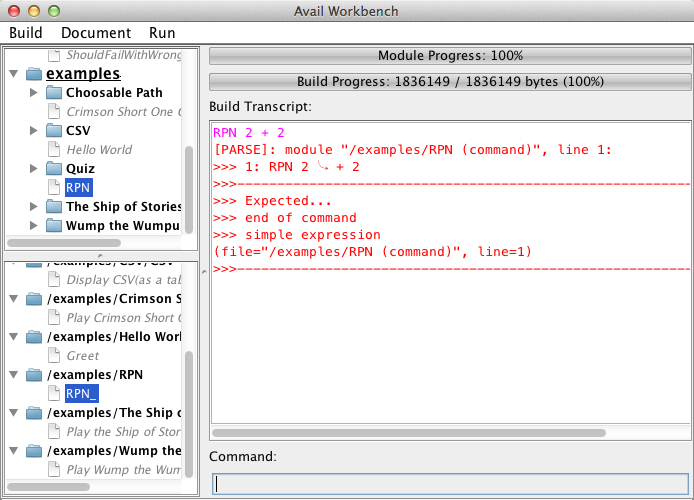
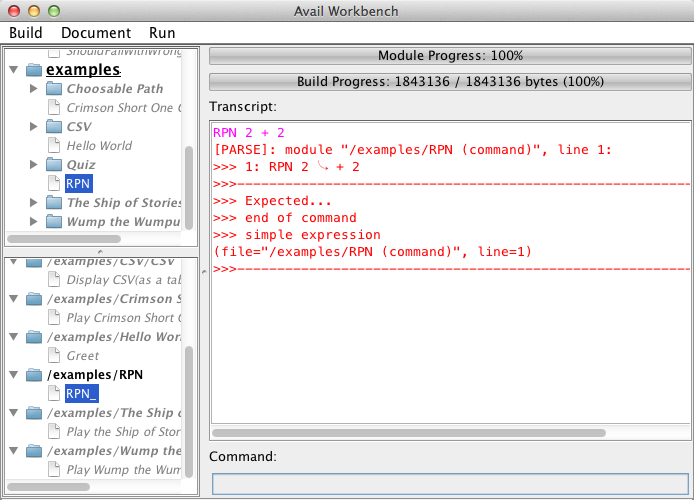
Updated the images for the tutorials to reflect the new appearance of the Avail workbench.

diff --git a/about-avail/learn/tutorials/rpn.html b/about-avail/learn/tutorials/rpn.html
@@ -44,7 +44,7 @@
 <li>Learn how to re-export imported method names for use by other modules.</li>
 <li>Learn how to use an import filter.</li>
 <li>Learn how to rename an imported method name.</li>
-<li>Learn the four basic arithmetic methods, <code>"_+_"</code>, <code>"_-_"</code>, <code>"_×_"</code>, and <code>"_÷_"</code>.</li>
+<li>Learn the four basic arithmetic methods, <code>"_+_"</code>, <code>"_-_"</code>, <code>"_&times;_"</code>, and <code>"_&divide;_"</code>.</li>
 <li>Learn how to "stringify" an arbitrary value using <code>"“_”"</code>.</li>
 </ul>
 
@@ -118,9 +118,9 @@ Method "RPN_" is
 <ul>
 <li><code>"__+"</code>,</li>
 <li><code>"__-"</code>,</li>
-<li><code>"__×"</code>,</li>
+<li><code>"__&times;"</code>,</li>
 <li><code>"__*"</code>,</li>
-<li><code>"__÷"</code>,</li>
+<li><code>"__&divide;"</code>,</li>
 <li>and <code>"__/"</code>.</li>
 </ul>
 
